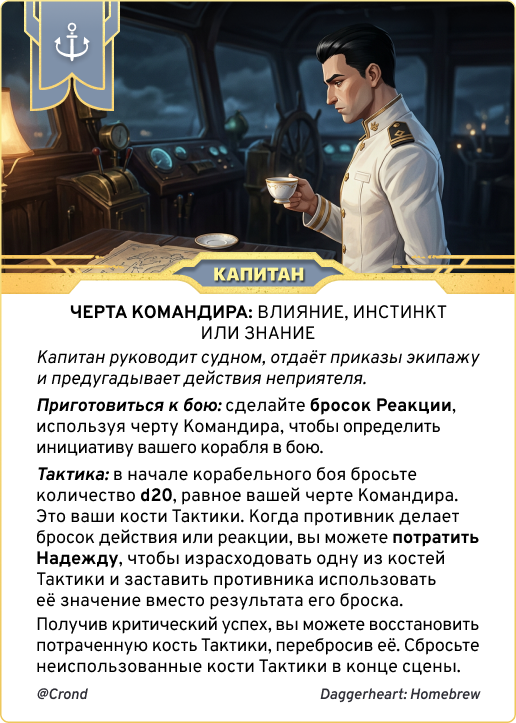
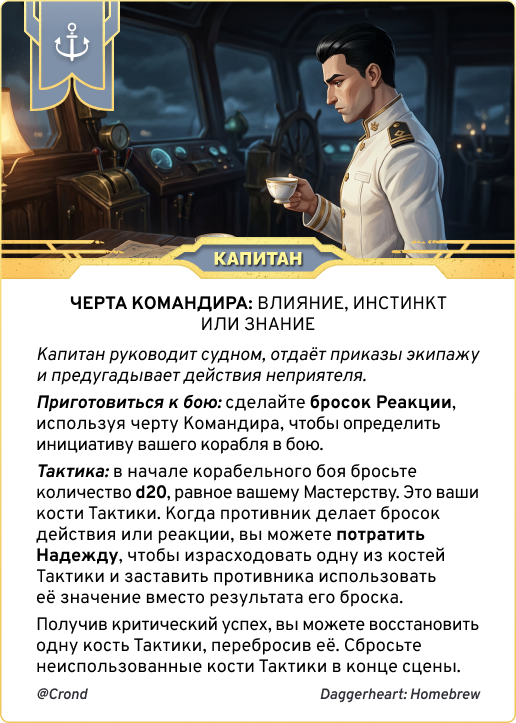
Published 2 files

Changed region(s): [[0.0, 0.3043, 1.0, 0.852], [0.062, 0.8824, 0.9302, 0.9129]]

diff --git a/content/Искатель Ветра/Корабельный бой.md b/content/Искатель Ветра/Корабельный бой.md
@@ -2,7 +2,7 @@
 publish: true
 description: Особенности и отличия геймплея на корабле
 created: 2026-02-26T14:23:05.000+03:00
-modified: 2026-04-07T14:40:45.691+03:00
+modified: 2026-04-11T18:49:57.328+03:00
 ---
 
 > [!error]    Контент в разработке
@@ -25,6 +25,38 @@ modified: 2026-04-07T14:40:45.691+03:00
 
 ---
 
+# Раунды
+
+Каждый корабельный бой начинается с броска Инициативы: Капитан-NPC бросает **d20**, Капитан-игрок делает обычный **бросок Реакции**, используя Инстинкт, Влияние или Знание на выбор игрока, при этом разрешается использовать Надежду для задействования подходящего Опыта (при наличии). Следом Инициативу бросают противники: каждый из них, кроме Приспешников, делает обычный бросок реакции; Приспешники делают один бросок на всю группу существ своего типа.
+Когда все участники боя сделали броски Инициативы, значения сравниваются и назначается порядок ходов. При равных значениях Инициативы игрок всегда ходит раньше NPC. Если значения равны у двух разных NPC — порядок их ходов определяет Мастер.
+Полный цикл ходов от первого до последнего участника боя называется раундом. Некоторые способности имеют ограничения длительности до конца раунда — это значит, что их эффект истекает вместе с окончанием хода последнего участника боя.
+
+Особые уточнения:
+
+- Инженер генерирует жетоны Энергии в самом начале раунда, сразу после бросков инициативы и до ходов противника — чтобы все члены экипажа уже знали, каким ресурсом они располагают, и могли планировать тактику на этот раунд.
+- Все существа из группы Приспешников действуют одновременно в свой ход инициативы.
+- Капитан не может использовать кости Тактики, чтобы подменять броски инициативы противников.
+
+# Ходы игроков
+
+## Ход экипажа
+
+Когда наступает ход корабля игроков, члены экипажа сами решают, кто и в каком порядке действует. Они могут проводить совместные манёвры и комбинировать действия, пока у них есть жетоны Энергии или другие возможности хода.
+
+## Передача фокуса
+
+Если игрок провалил бросок Действия или получил для него результат со Страхом, ему следует передать ход другому члену экипажа. Этот игрок может снова заявить действие после того, как подействует кто-то из его союзников (либо если они откажутся или не смогут сделать ход).
+
+## Завершение хода
+
+Ход корабля игроков заканчивается, когда у членов экипажа кончились возможности или необходимость делать ход. Неиспользованные жетоны Энергии сохраняются на следующий раунд.
+
+# Ходы противников
+
+Для подсчёта ходов противников жетоны энергии не используются: каждый противник может один раз без броска переместиться в пределах Средней дистанции и либо провести одну атаку, либо активировать одну из своих способностей, если Мастер потратит потребное количество Страха.
+Если у противника есть свойство Неумолимый (Relentless), он может провести столько атак или применить столько способностей, сколько указано в описании свойства, потратив Страх за каждое дополнительное действие.
+Мастер не может потратить Страх для активации противников вне очереди, однако он может задействовать Реакции противников во время хода корабля игроков — равно как и игроки могут применять подходящие реакции во время хода противника.
+
 # Характеристики и ресурсы
 
 «Искатель Ветра» имеет свои характеристики, некоторые из них имеют прямые аналоги с характеристиками персонажей.
@@ -41,7 +73,7 @@ modified: 2026-04-07T14:40:45.691+03:00
 
 #### Кость урона
 
-Наносимый корабельными Залпами урон зависит от установленного орудия, количество костей урона _не зависит от Мастерства игрока_ — его можно увеличить, затратив дополнительные жетоны Энергии. Размер кости урона увеличивается с получением ранга: d8 на втором, d10 на третьем, d12 на четвёртом.
+Наносимый корабельными Залпами урон зависит от установленного орудия, количество костей урона _не зависит от Мастерства игрока_ — его можно увеличить, затратив дополнительные жетоны Энергии. Размер кости урона увеличивается с получением ранга: d8 на втором, d10 на третьем, d12 на четвёртом.
 
 - **Базовые орудия**: 1d6, Далеко, Физический урон.
 
@@ -53,7 +85,7 @@ modified: 2026-04-07T14:40:45.691+03:00
 
 Полевой может быть осуществлён где угодно до трёх раз за вылет. Обычно он представляет собой посадку в спокойном участке дикой местности, чтобы можно было отключить двигатели, обесточить солнечные паруса и заняться обслуживанием корабля.
 
-Можно **выбрать до двух ходов** Полевого ремонта (разных или одинаковых):
+Можно **выбрать до трёх ходов** Полевого ремонта (разных или одинаковых):
 
 - **Залатать корпус:** опишите, как вы заделываете дыры в корпусе корабля, а затем снимите количество Пробоев, равное 1d4 + ваш ранг.
 - **Охладить Ядро:** опишите, как вы выводите излишки тепла и грязной энергии из Ядра и снимите количество Перегрева, равное 1d4 + ваш ранг.

diff --git a/content/Искатель Ветра/Должностная инструкция — Канонир.md b/content/Искатель Ветра/Должностная инструкция — Канонир.md
@@ -2,7 +2,7 @@
 publish: true
 description: Карточки способностей для корабельной должности «Канонир»
 created: 2026-03-04T01:54:09.000+03:00
-modified: 2026-04-04T00:23:17.000+03:00
+modified: 2026-04-10T18:08:49.539+03:00
 ---
 
 ![[img/daggership/gunner-card.png|344]]
@@ -20,7 +20,7 @@ modified: 2026-04-04T00:23:17.000+03:00
 ## Краткая памятка для игрока-Канонира
 
 1. **Получение ресурсов:** Дождитесь распределения жетонов Энергии от Инженера.
-2. **Выбор режима:** Решите, сколько жетонов влить в один залп. Нужна ли вам точность (+2) или мощь (+кости урона)?
+2. **Выбор режима:** Решите, сколько жетонов влить в один залп. Нужна ли вам точность (+2) или мощь (+кость урона)?
 3. **Оценка дистанции:** Проверьте модификатор «Затухания импульса». Если вы слишком далеко — требуйте от Рулевого сближения.
 4. **Залп:** Совершите бросок действия (Искусность или Влияние) против Сложности противника. При успехе — бросайте кости урона корабля.
 5. **Контроль:** Используйте способности для перехвата вражеских атак или дебаффа противника.
